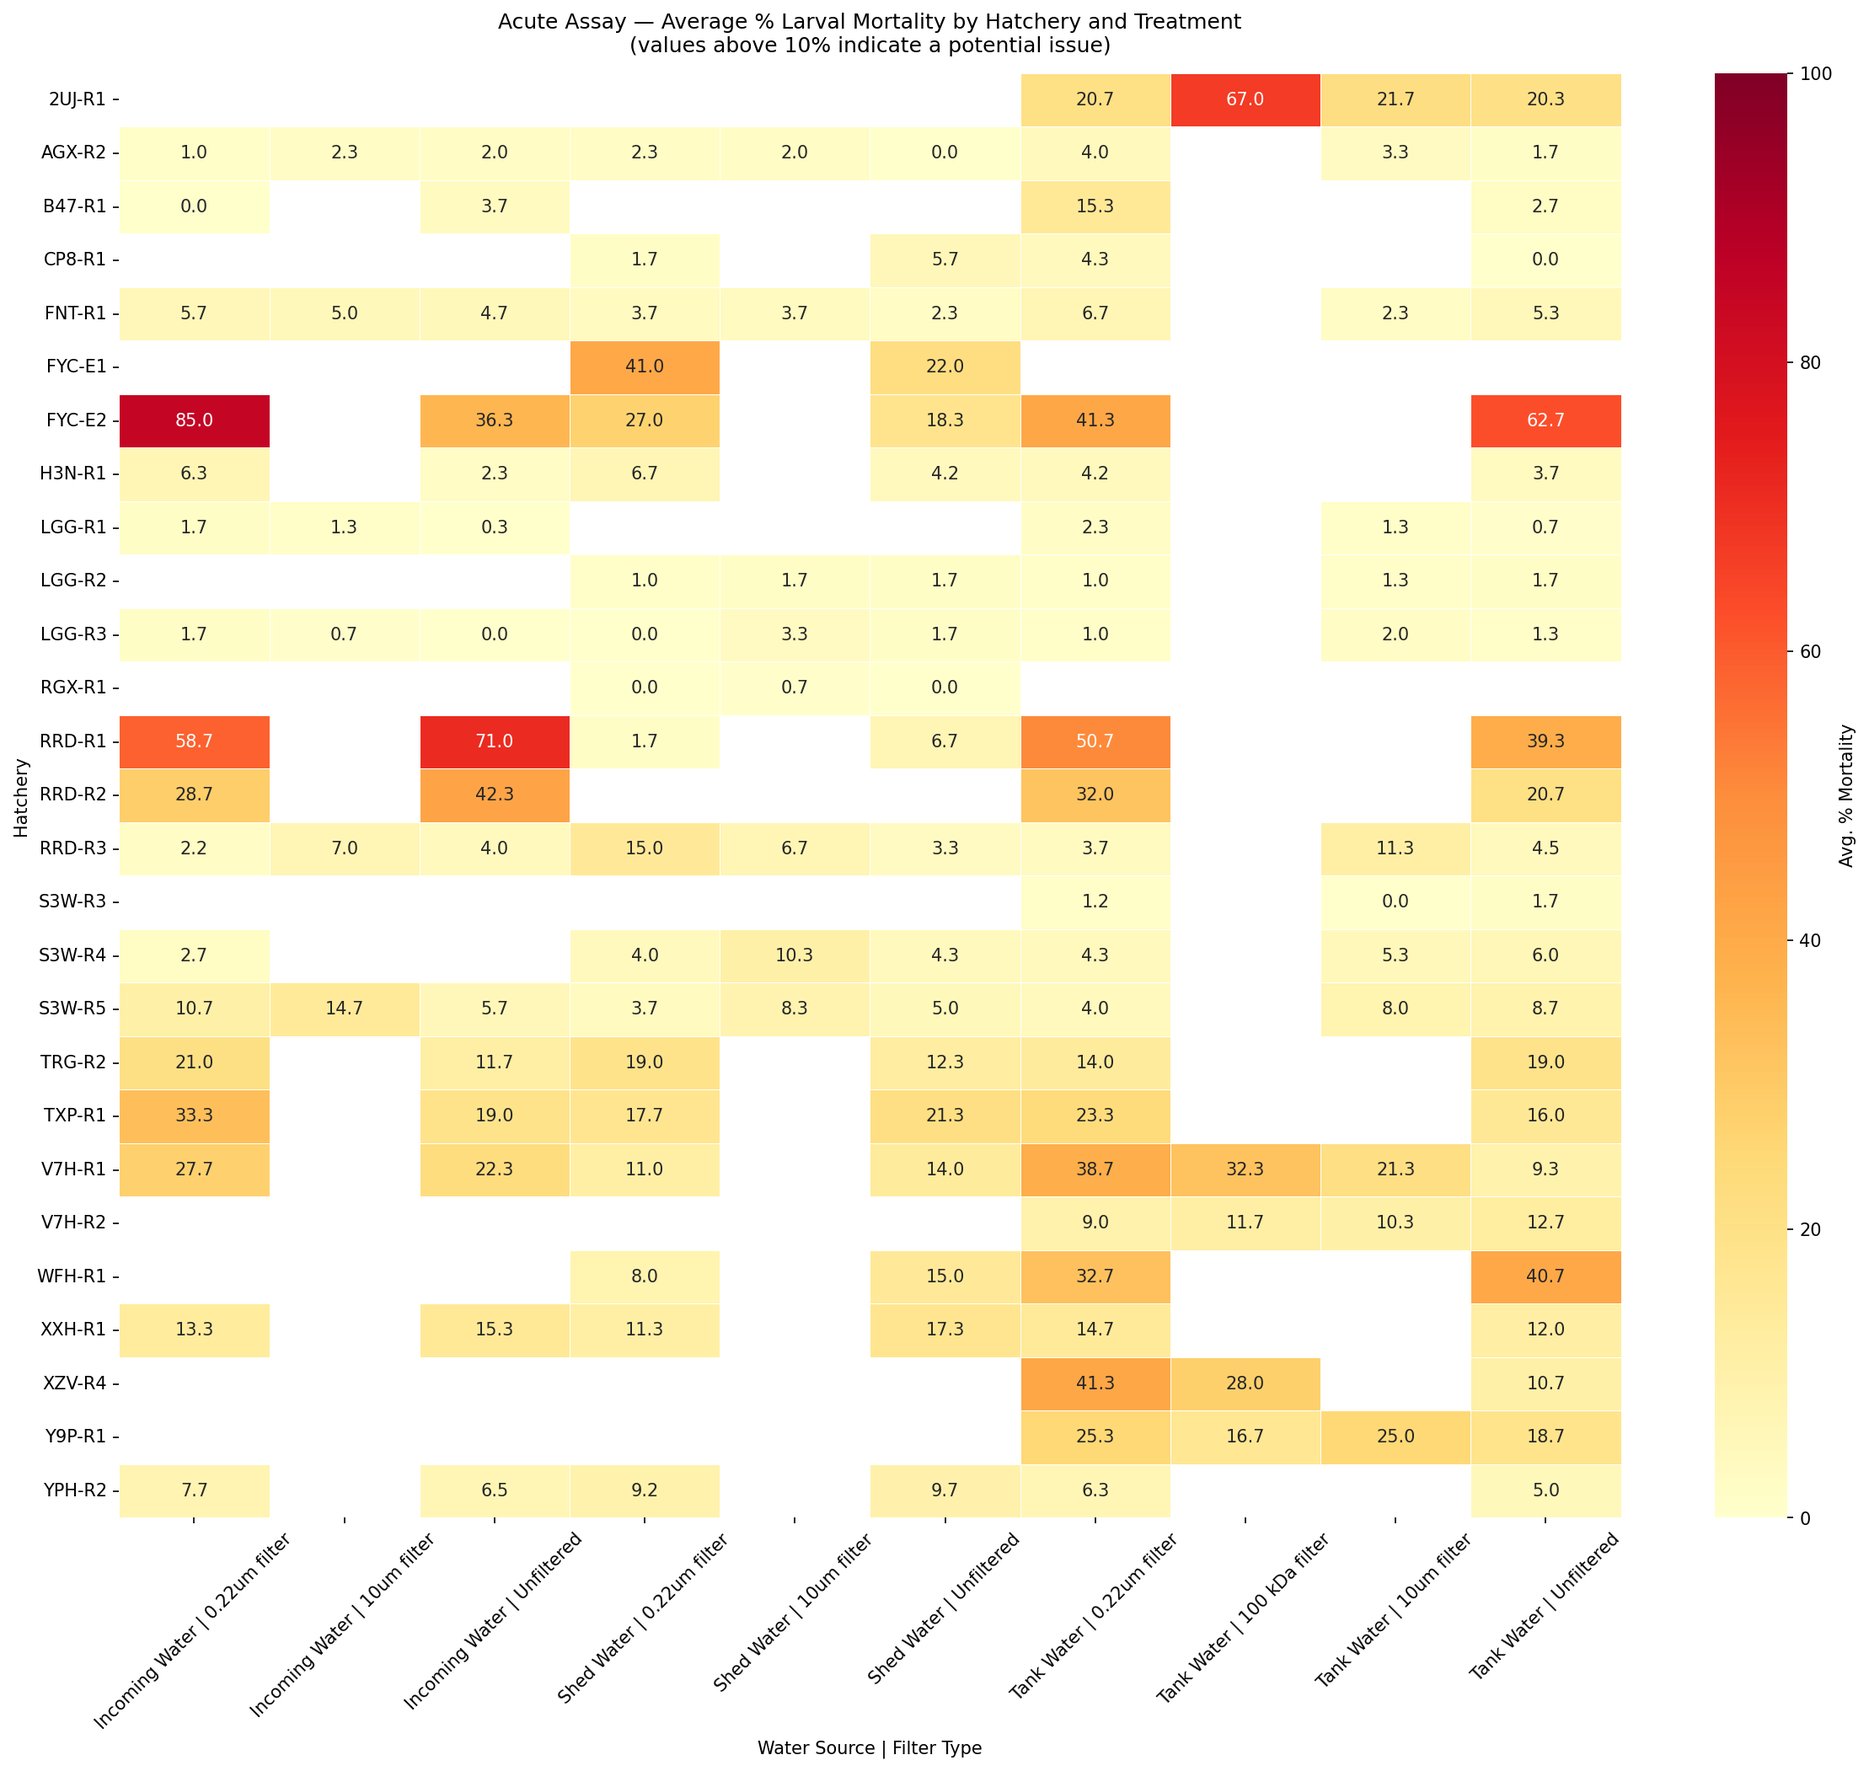
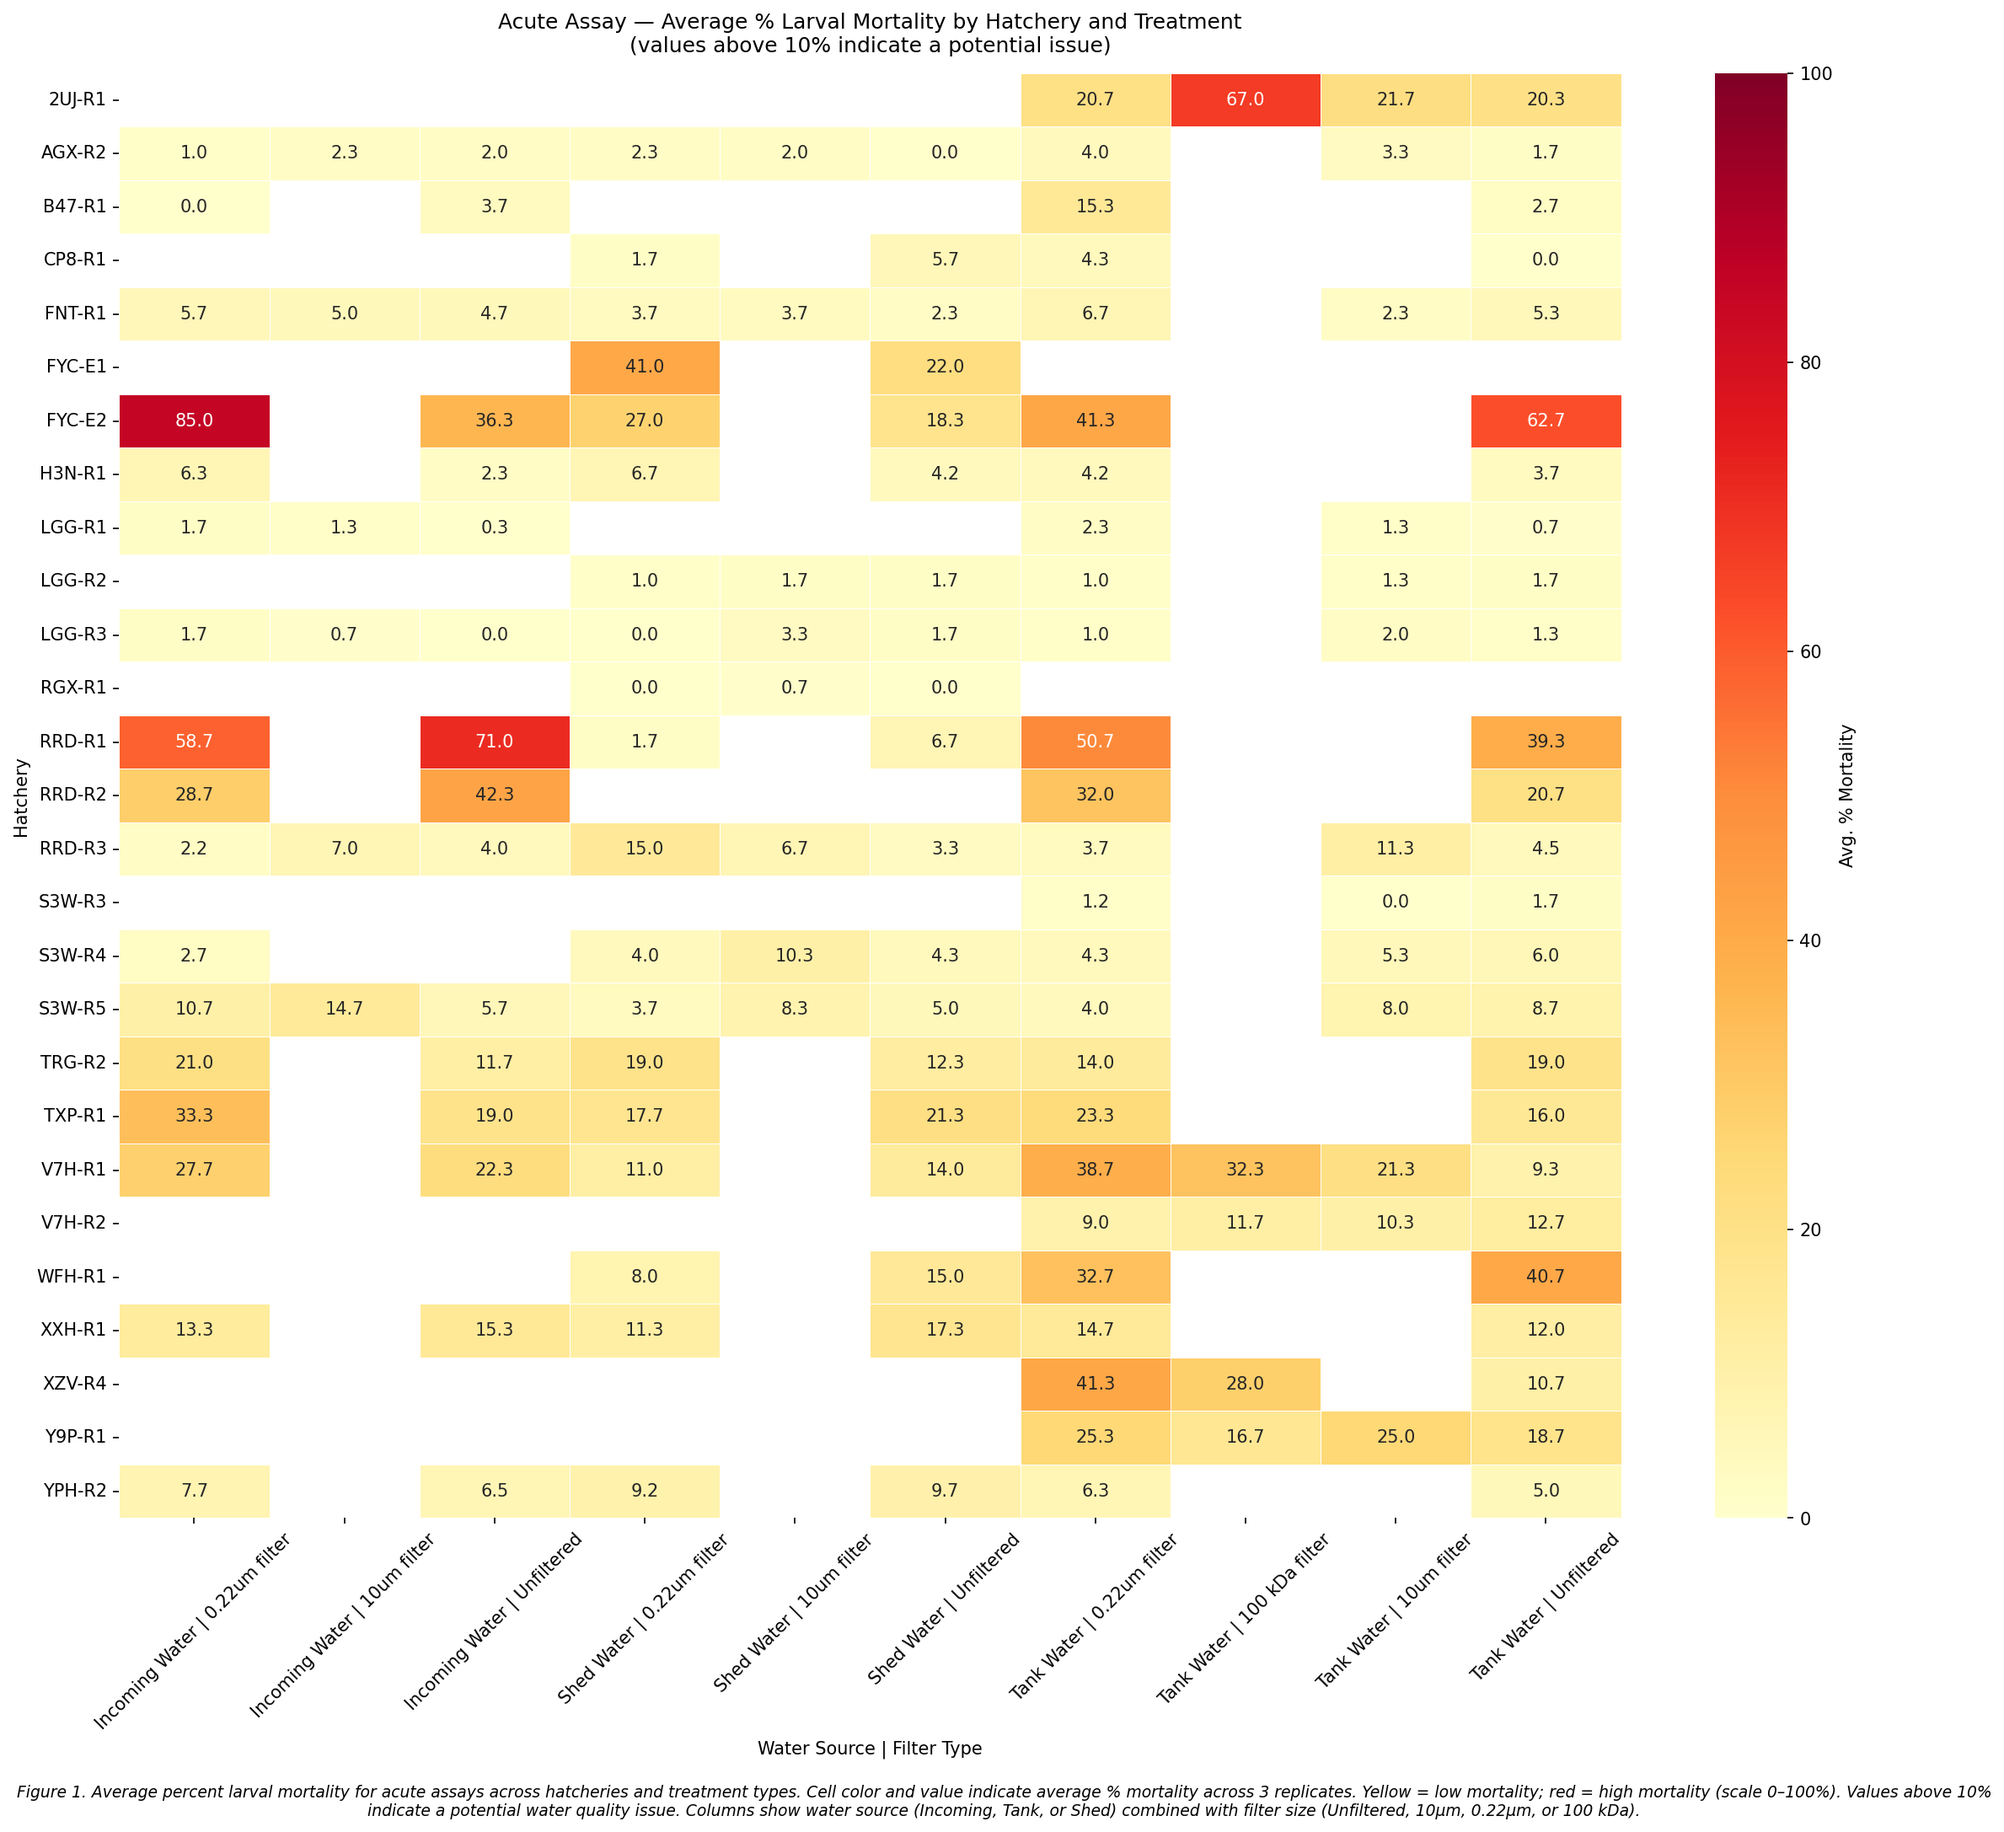
renamed script to larval_assay_automation.py, updated comments, added a link to and AI statement and analysis

diff --git a/data/analysis.py b/data/analysis.py
@@ -22,7 +22,8 @@ A treatment is flagged if average % mortality across the 3 replicates exceeds
 issues from chronic/husbandry/genetic problems.
 
 Usage:
-    python analysis.py <path_to_data_file>
+    python analysis.py <path_to_data_file>   # pass file path directly
+    python analysis.py                        # will prompt you to enter the path
 
 Example:
     python analysis.py data/BHHC_data.csv
@@ -35,12 +36,21 @@ import matplotlib.pyplot as plt
 import seaborn as sns
 
 
-# ── Check that a file path was provided on the command line ───────────────────
-if len(sys.argv) != 2:
-    print("Usage: python analysis.py <path_to_data_file>")
-    sys.exit(1)
+# ── Get the data file path ─────────────────────────────────────────────────────
+# Accepts the file path two ways:
+#   1. As a command-line argument: python analysis.py data/myfile.csv
+#   2. Interactively: just run python analysis.py and it will ask you
+if len(sys.argv) == 2:
+    DATA_FILE = sys.argv[1]  # path provided on the command line
+else:
+    # No argument given — prompt the user to type the path
+    DATA_FILE = input("Enter path to data file (e.g. data/BHHC_data.csv): ").strip()
 
-DATA_FILE = sys.argv[1]  # path to the CSV/Excel file, passed in at run time
+# Check that the file actually exists before trying to load it
+if not os.path.exists(DATA_FILE):
+    print(f"Error: file not found: {DATA_FILE}")
+    print("Please check the path and try again.")
+    sys.exit(1)
 
 
 # ── Output directories (relative to wherever the script is run from) ──────────
@@ -289,6 +299,20 @@ for assay_type in sorted(avg["assay_type"].dropna().unique()):
     ax.tick_params(axis="x", rotation=45)
     ax.tick_params(axis="y", rotation=0)
 
+    # Add a descriptive figure caption below the heatmap
+    # This follows academic convention: caption explains what is shown,
+    # what the colors mean, and how to interpret the threshold
+    fig.text(
+        0.5, -0.02,
+        f"Figure 1. Average percent larval mortality for {assay_type.lower()} assays across hatcheries and treatment types. "
+        f"Cell color and value indicate average % mortality across 3 replicates. "
+        f"Yellow = low mortality; red = high mortality (scale 0–100%). "
+        f"Values above {MORTALITY_THRESHOLD}% indicate a potential water quality issue. "
+        f"Columns show water source (Incoming, Tank, or Shed) combined with filter size "
+        f"(Unfiltered, 10µm, 0.22µm, or 100 kDa).",
+        ha="center", fontsize=9, style="italic", wrap=True
+    )
+
     plt.tight_layout()
 
     outpath = os.path.join(FIGURES_DIR, f"heatmap_{assay_type.lower()}.png")
@@ -337,6 +361,20 @@ ax.set_ylabel("Max Avg. % Mortality")
 ax.set_xlabel("Hatchery")
 ax.set_title("Maximum Average Larval Mortality per Hatchery by Assay Type")
 ax.legend()
+
+# Add a descriptive figure caption below the bar chart
+# Caption explains axes, bar colors, and the meaning of the threshold line
+fig.text(
+    0.5, -0.02,
+    "Figure 2. Maximum average larval mortality per hatchery by assay type. "
+    "Blue bars = acute assay (20–24 hr); orange bars = chronic assay (7 day). "
+    "Each bar represents the highest average % mortality observed across all "
+    "water source and filter combinations for that hatchery. "
+    "Red dashed line indicates the 10% mortality threshold; hatcheries exceeding "
+    "this threshold in acute assays indicate a water quality issue.",
+    ha="center", fontsize=9, style="italic", wrap=True
+)
+
 plt.tight_layout()
 
 bar_out = os.path.join(FIGURES_DIR, "max_mortality_by_hatchery.png")
